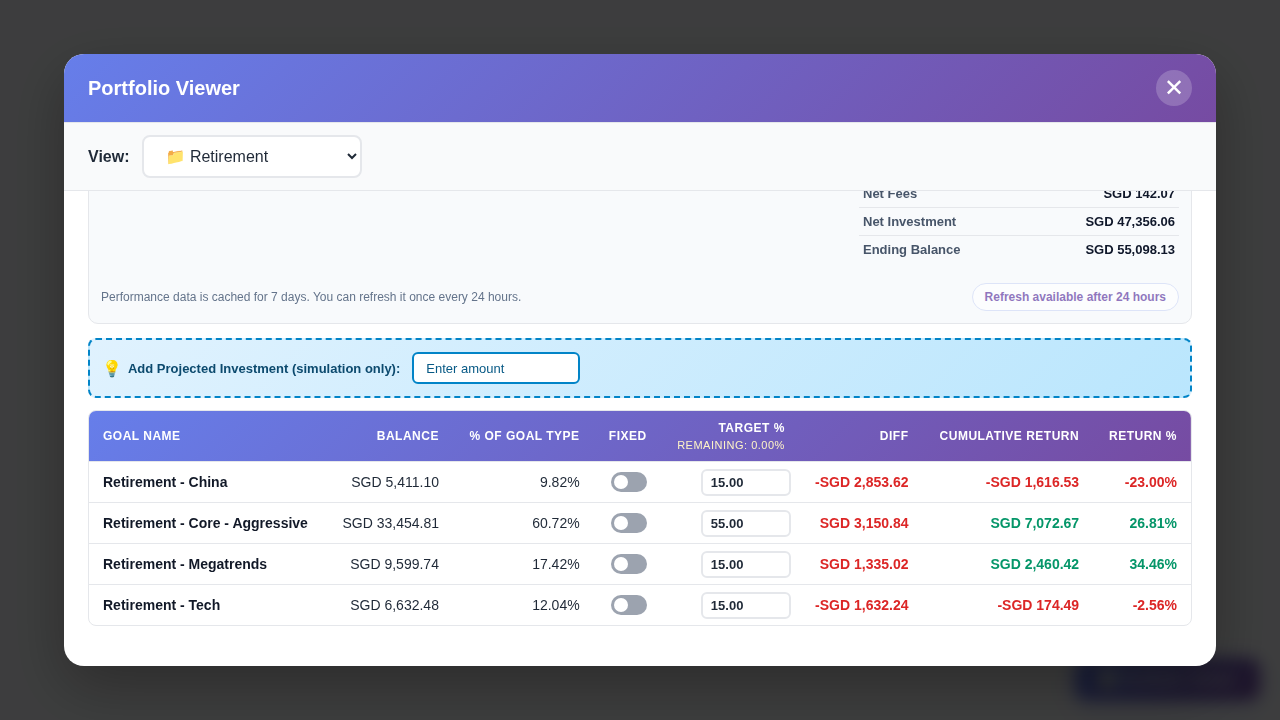
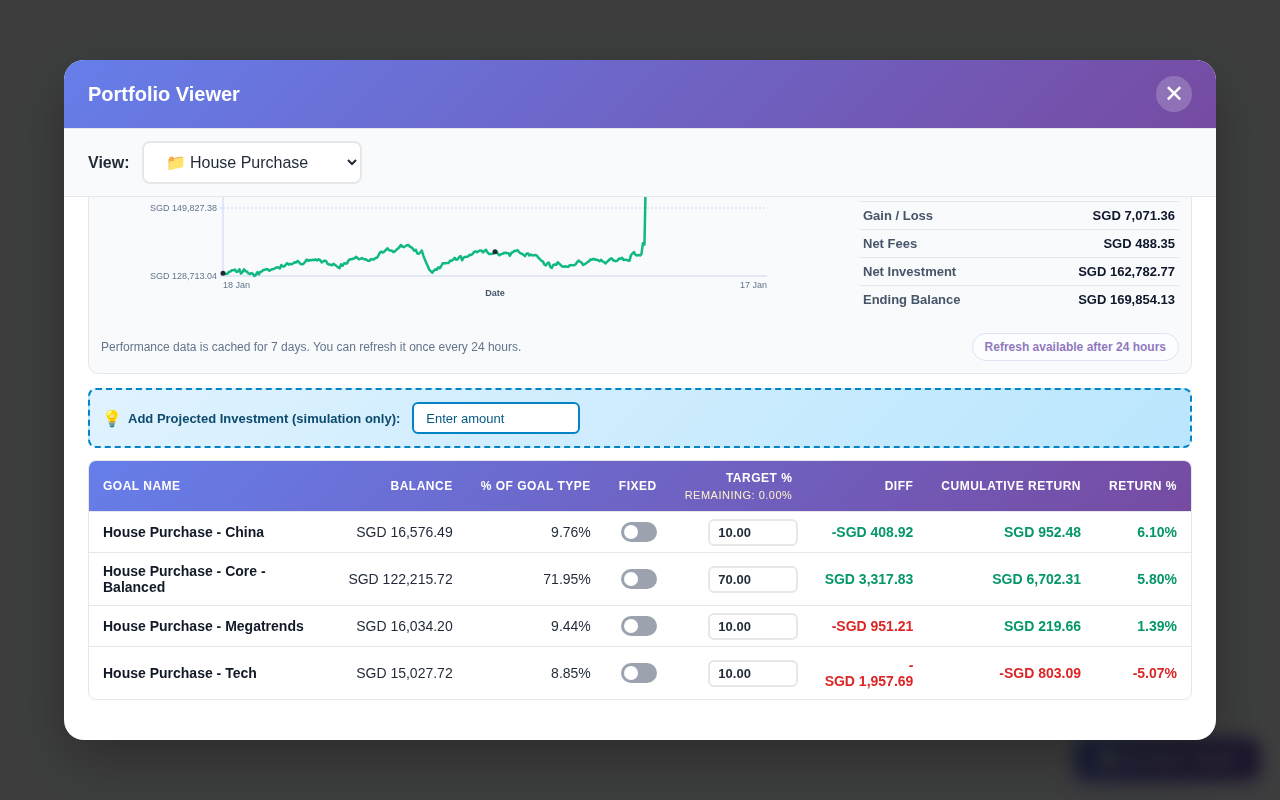
Update demo screenshots with automated capture tooling (#81)
* Initial plan

* Update demo screenshots with new captures from demo environment

- Modified take-screenshots.js to save to docs directory and use HTTP server
- Fixed dropdown selector to use .gpv-select instead of .gpv-bucket-dropdown
- Captured all 5 required screenshots: summary view, house purchase performance/goals, retirement performance/goals
- Removed old/debug screenshots

* Fix linting issues in take-screenshots.js and add demo support to ESLint config

- Added demo directory configuration to eslint.config.mjs with Node.js and browser globals
- Fixed unused error variable by prefixing with underscore
- All tests passing, all linting clean

---------

diff --git a/demo/take-screenshots.js b/demo/take-screenshots.js
@@ -9,17 +9,62 @@
  * Requirements:
  *   npm install playwright
  *   npx playwright install chromium
+ * 
+ * @eslint-env node
  */
 
 const fs = require('fs');
 const path = require('path');
+const http = require('http');
+
+// Simple HTTP server for serving demo files
+function startServer(directory, port) {
+    return new Promise((resolve, reject) => {
+        const server = http.createServer((req, res) => {
+            let filePath = path.join(directory, req.url === '/' ? 'demo-clean.html' : req.url);
+            
+            // Security: prevent directory traversal
+            if (!filePath.startsWith(directory)) {
+                res.writeHead(403);
+                res.end('Forbidden');
+                return;
+            }
+            
+            fs.readFile(filePath, (err, data) => {
+                if (err) {
+                    res.writeHead(404);
+                    res.end('Not found');
+                    return;
+                }
+                
+                // Set content type
+                const ext = path.extname(filePath);
+                const contentType = {
+                    '.html': 'text/html',
+                    '.js': 'text/javascript',
+                    '.json': 'application/json',
+                    '.png': 'image/png'
+                }[ext] || 'text/plain';
+                
+                res.writeHead(200, { 'Content-Type': contentType });
+                res.end(data);
+            });
+        });
+        
+        server.listen(port, () => {
+            resolve(server);
+        });
+        
+        server.on('error', reject);
+    });
+}
 
 async function takeScreenshots() {
     // Check if playwright is available
     let playwright;
     try {
         playwright = require('playwright');
-    } catch (error) {
+    } catch (_error) {
         console.error('\n❌ Playwright not installed!');
         console.error('\nTo use automated screenshots, install Playwright:');
         console.error('  npm install playwright');
@@ -29,20 +74,25 @@ async function takeScreenshots() {
     }
 
     const demoDir = __dirname;
-    const assetsDir = path.join(path.dirname(demoDir), 'assets');
-    const demoHtmlPath = path.join(demoDir, 'demo-clean.html');
-    const demoUrl = `file://${demoHtmlPath}`;
+    const docsDir = path.join(path.dirname(demoDir), 'docs');
+    const port = 8765;
+    const demoUrl = `http://localhost:${port}/demo-clean.html`;
 
-    // Ensure assets directory exists
-    if (!fs.existsSync(assetsDir)) {
-        fs.mkdirSync(assetsDir, { recursive: true });
+    // Ensure docs directory exists
+    if (!fs.existsSync(docsDir)) {
+        fs.mkdirSync(docsDir, { recursive: true });
     }
 
     console.log('\n' + '='.repeat(70));
     console.log('GOAL PORTFOLIO VIEWER - AUTOMATED SCREENSHOT CAPTURE');
     console.log('='.repeat(70));
     console.log(`\nDemo URL: ${demoUrl}`);
-    console.log(`Assets directory: ${assetsDir}\n`);
+    console.log(`Docs directory: ${docsDir}\n`);
+
+    // Start HTTP server
+    console.log(`🌐 Starting local server on port ${port}...`);
+    const server = await startServer(demoDir, port);
+    console.log('   ✓ Server started');
 
     // Launch browser
     console.log('🌐 Launching browser...');
@@ -53,15 +103,51 @@ async function takeScreenshots() {
         viewport: { width: 1280, height: 800 }
     });
     const page = await context.newPage();
+    
+    // Enable console logging
+    page.on('console', msg => {
+        console.log('Browser console:', msg.text());
+    });
+    
+    page.on('pageerror', error => {
+        console.error('Browser error:', error);
+    });
 
     try {
         // Navigate to demo page
         console.log('📂 Loading demo page...');
-        await page.goto(demoUrl, { waitUntil: 'load' });
+        await page.goto(demoUrl, { waitUntil: 'networkidle' });
+        
+        // Wait a bit for scripts to initialize
+        await page.waitForTimeout(2000);
+        
+        // Check if button exists
+        const buttonExists = await page.$('.gpv-trigger-btn');
+        if (!buttonExists) {
+            // Debug: capture console logs
+            console.log('⚠  Button not found, checking console logs...');
+            const logs = await page.evaluate(() => {
+                return window.__consoleLogs || [];
+            });
+            console.log('Console logs:', logs);
+            
+            // Take debug screenshot
+            await page.screenshot({
+                path: path.join(docsDir, 'debug-screenshot.png'),
+                fullPage: true
+            });
+            console.log('   ✓ Saved debug screenshot: debug-screenshot.png');
+            
+            // Check if userscript loaded
+            const userscriptLoaded = await page.evaluate(() => {
+                return !!window.portfolioViewerDebug || document.querySelector('.gpv-trigger-btn');
+            });
+            console.log('Userscript loaded:', userscriptLoaded);
+        }
         
         // Wait for the trigger button to appear
         console.log('⏳ Waiting for Portfolio Viewer button...');
-        await page.waitForSelector('.gpv-trigger-btn', { timeout: 10000 });
+        await page.waitForSelector('.gpv-trigger-btn', { timeout: 20000 });
         
         // Click the trigger button
         console.log('🖱  Clicking Portfolio Viewer button...');
@@ -74,7 +160,7 @@ async function takeScreenshots() {
         // Screenshot 1: Summary view
         console.log('📸 Capturing summary view...');
         await page.screenshot({
-            path: path.join(assetsDir, 'screenshot-summary.png'),
+            path: path.join(docsDir, 'screenshot-summary.png'),
             fullPage: false
         });
         console.log('   ✓ Saved: screenshot-summary.png');
@@ -82,16 +168,22 @@ async function takeScreenshots() {
         // Screenshot 2: House Purchase bucket detail
         console.log('📸 Capturing House Purchase bucket detail...');
         
+        // Debug: check available options
+        const options = await page.$$eval('select.gpv-select option', opts => 
+            opts.map(opt => ({ value: opt.value, text: opt.textContent }))
+        );
+        console.log('   Available options:', options);
+        
         // Select House Purchase from dropdown
-        await page.selectOption('select.gpv-bucket-dropdown', { label: 'House Purchase' });
+        await page.selectOption('select.gpv-select', options.find(opt => opt.text.includes('House Purchase'))?.value || 'House Purchase');
         await page.waitForTimeout(1000); // Wait for view to update
         
-        // Take screenshot of top section
+        // Take screenshot of top section (performance graph)
         await page.screenshot({
-            path: path.join(assetsDir, 'screenshot-house-purchase-detail-top.png'),
+            path: path.join(docsDir, 'house-purchase-performance.png'),
             fullPage: false
         });
-        console.log('   ✓ Saved: screenshot-house-purchase-detail-top.png');
+        console.log('   ✓ Saved: house-purchase-performance.png');
         
         // Scroll the content panel to bottom to show goals table
         await page.evaluate(() => {
@@ -104,10 +196,10 @@ async function takeScreenshots() {
         
         // Take screenshot of scrolled view showing goals table
         await page.screenshot({
-            path: path.join(assetsDir, 'screenshot-house-purchase-detail-bottom.png'),
+            path: path.join(docsDir, 'house-purchase-goals.png'),
             fullPage: false
         });
-        console.log('   ✓ Saved: screenshot-house-purchase-detail-bottom.png');
+        console.log('   ✓ Saved: house-purchase-goals.png');
         
         // Screenshot 3: Retirement bucket detail
         console.log('📸 Capturing Retirement bucket detail...');
@@ -121,16 +213,16 @@ async function takeScreenshots() {
         });
         await page.waitForTimeout(300);
         
-        // Select Retirement from dropdown
-        await page.selectOption('select.gpv-bucket-dropdown', { label: 'Retirement' });
+        // Select Retirement from dropdown using value
+        await page.selectOption('select.gpv-select', 'Retirement');
         await page.waitForTimeout(1000); // Wait for view to update
         
-        // Take screenshot of top section
+        // Take screenshot of top section (performance graph)
         await page.screenshot({
-            path: path.join(assetsDir, 'screenshot-retirement-detail-top.png'),
+            path: path.join(docsDir, 'retirement-performance.png'),
             fullPage: false
         });
-        console.log('   ✓ Saved: screenshot-retirement-detail-top.png');
+        console.log('   ✓ Saved: retirement-performance.png');
         
         // Scroll to bottom
         await page.evaluate(() => {
@@ -143,13 +235,13 @@ async function takeScreenshots() {
         
         // Take screenshot of scrolled view
         await page.screenshot({
-            path: path.join(assetsDir, 'screenshot-retirement-detail-bottom.png'),
+            path: path.join(docsDir, 'retirement-goals.png'),
             fullPage: false
         });
-        console.log('   ✓ Saved: screenshot-retirement-detail-bottom.png');
+        console.log('   ✓ Saved: retirement-goals.png');
         
         console.log('\n✅ All screenshots captured successfully!');
-        console.log(`\n📁 Screenshots saved to: ${assetsDir}\n`);
+        console.log(`\n📁 Screenshots saved to: ${docsDir}\n`);
         
     } catch (error) {
         console.error('\n❌ Error capturing screenshots:', error.message);
@@ -157,6 +249,8 @@ async function takeScreenshots() {
         throw error;
     } finally {
         await browser.close();
+        server.close();
+        console.log('🛑 Server stopped');
     }
 }
 
